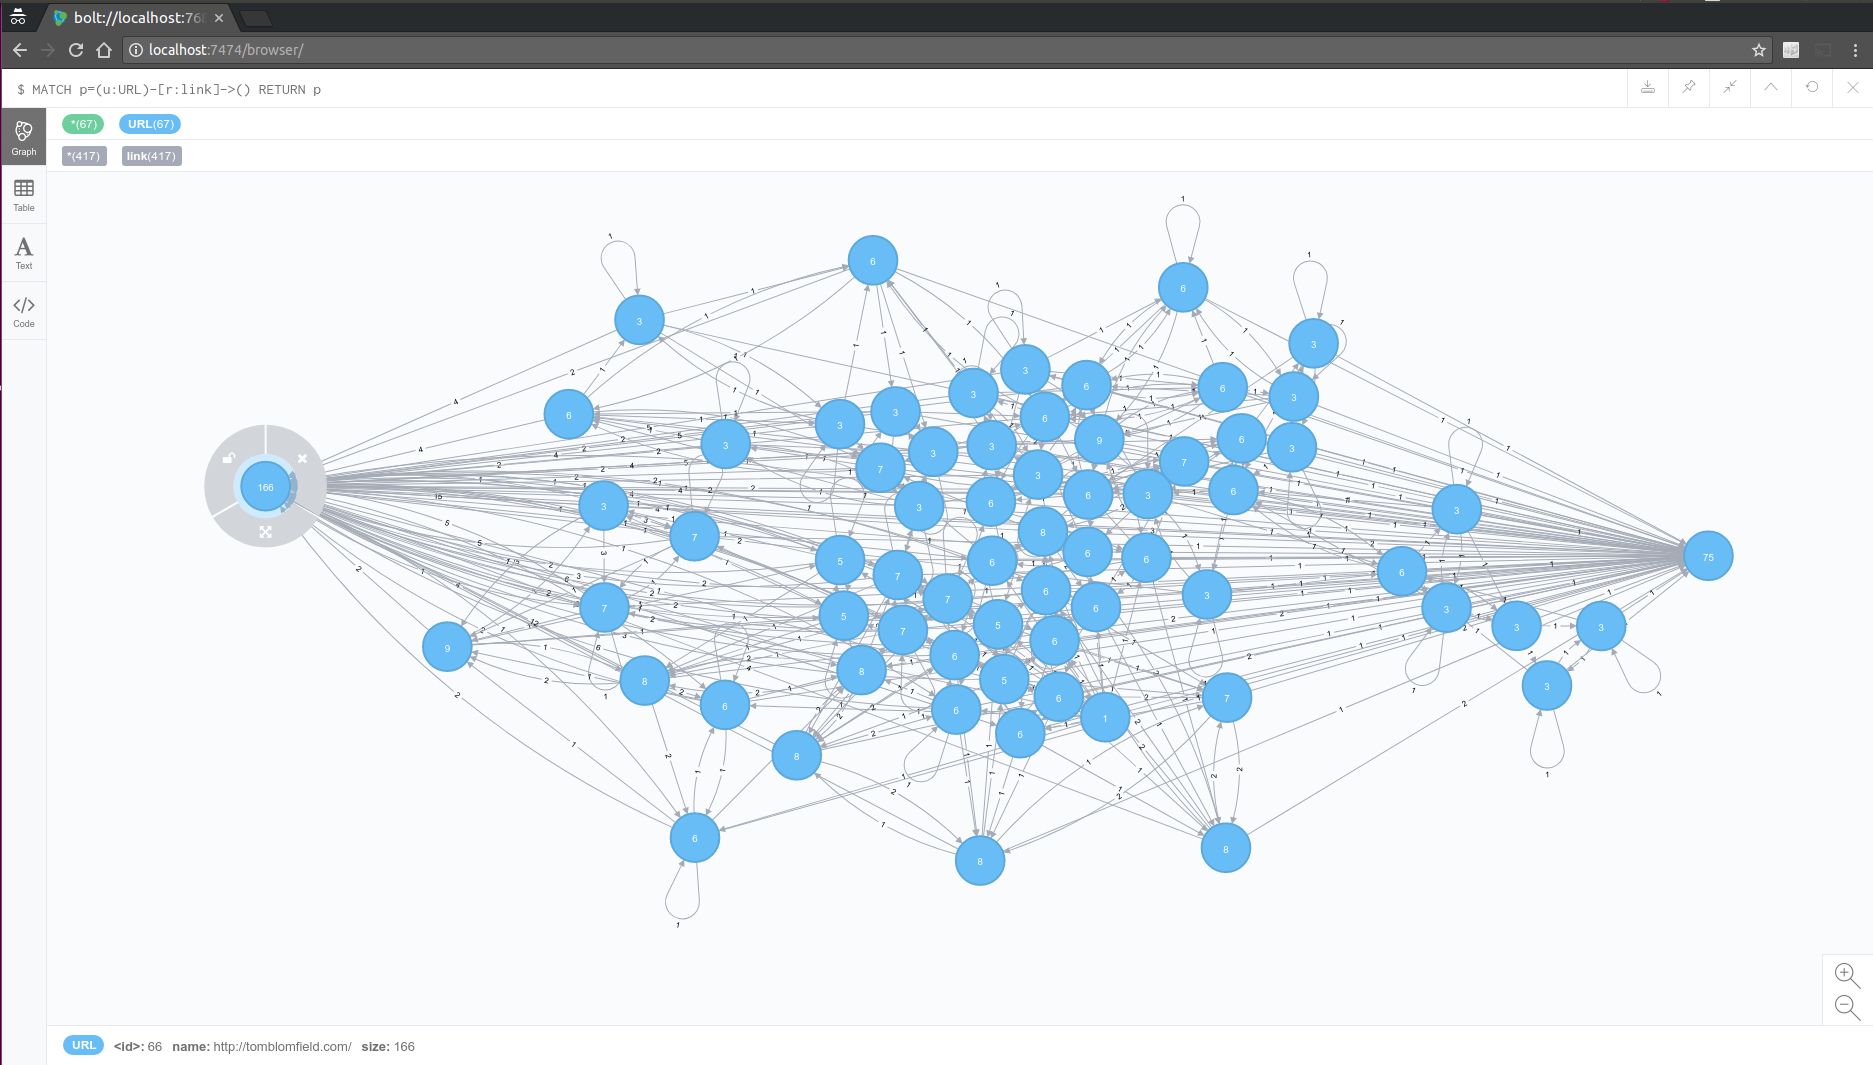
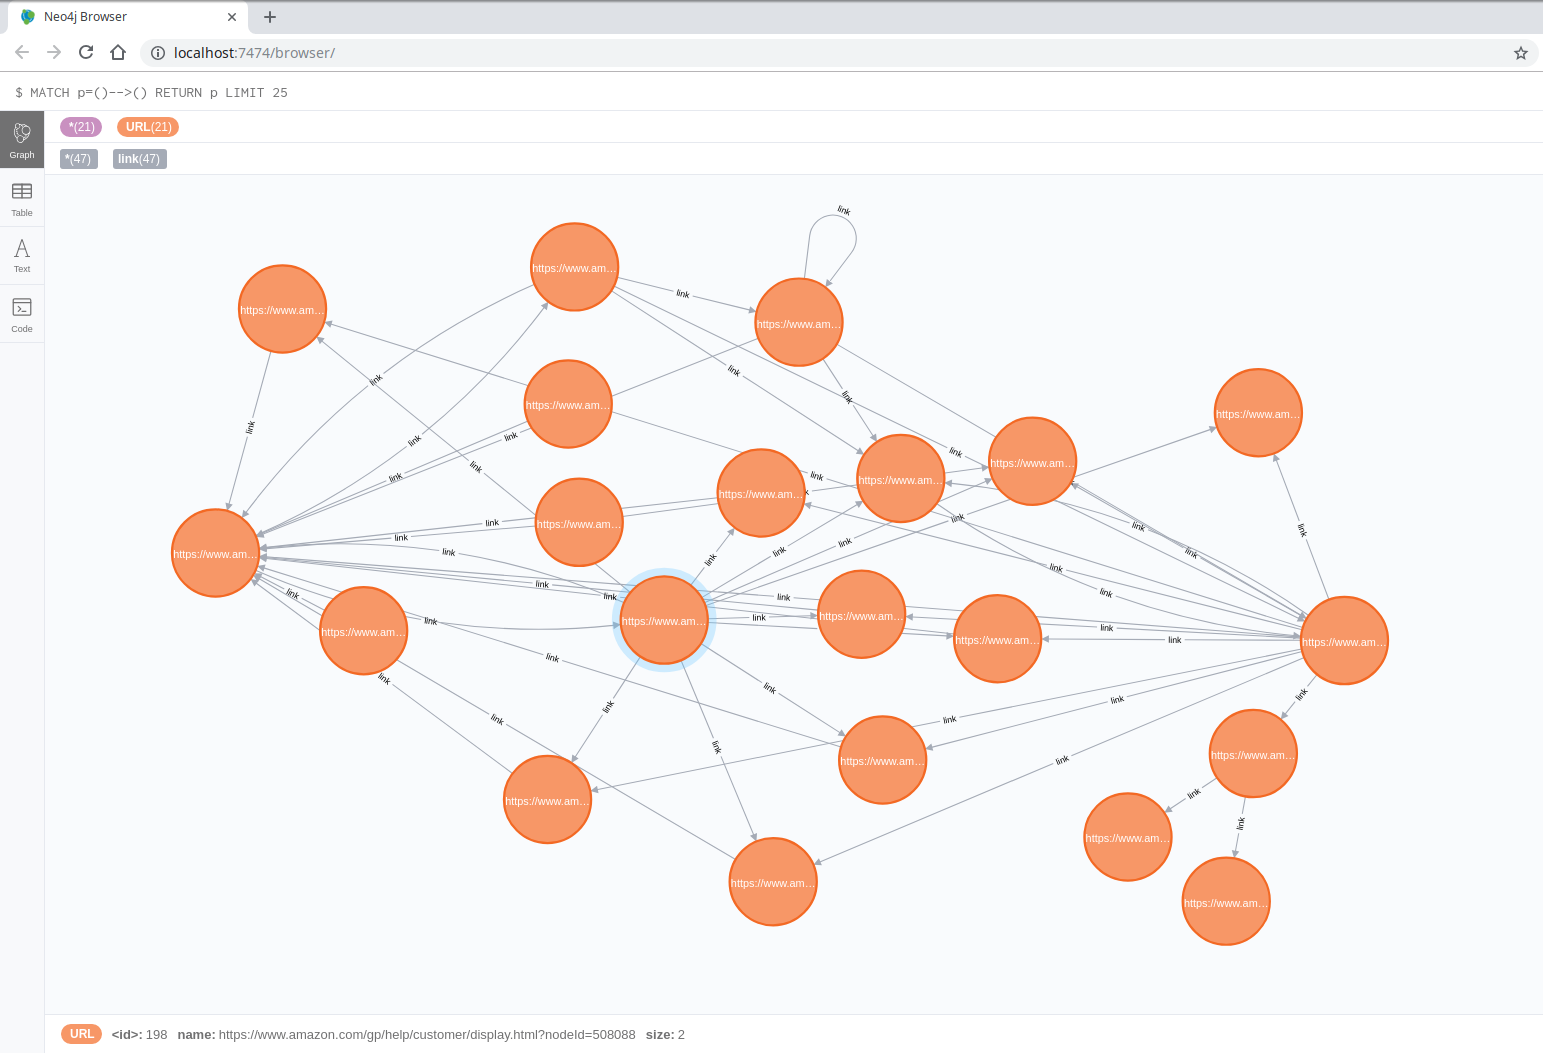
Changed address

diff --git a/README.md b/README.md
@@ -29,8 +29,8 @@ You could define different parameters related to the service, in this configurat
   "app_name" : "crawler",
   "redis_address":  "redis:6379",
   "neo4j_bolt_address": "bolt://neo4j:7687",
-  "target_url": "http://tomblomfield.com",
-  "filter_url": "http://tomblomfield.com",
+  "target_url": "https://www.amazon.com",
+  "filter_url": "https://www.amazon.com",
   "reset_redis" : true,
   "reset_neo4j" : true,
   "redis_connection_attempts": 15,
@@ -137,6 +137,6 @@ Q2:
 
 You can see graph of crawled data over the target URL, below.
 
-![Screenshot of Graph-1, http://tomblomfield.com](img/screenshot_neo4j%231.png)
+![Screenshot of Graph-1, https://www.amazon.com](img/screenshot_neo4j%231.png)
 
-![Screenshot of Graph-2, http://tomblomfield.com/rss](img/screenshot_neo4j%232.png)
+![Screenshot of Graph-2, https://www.amazon.com/rss](img/screenshot_neo4j%232.png)
